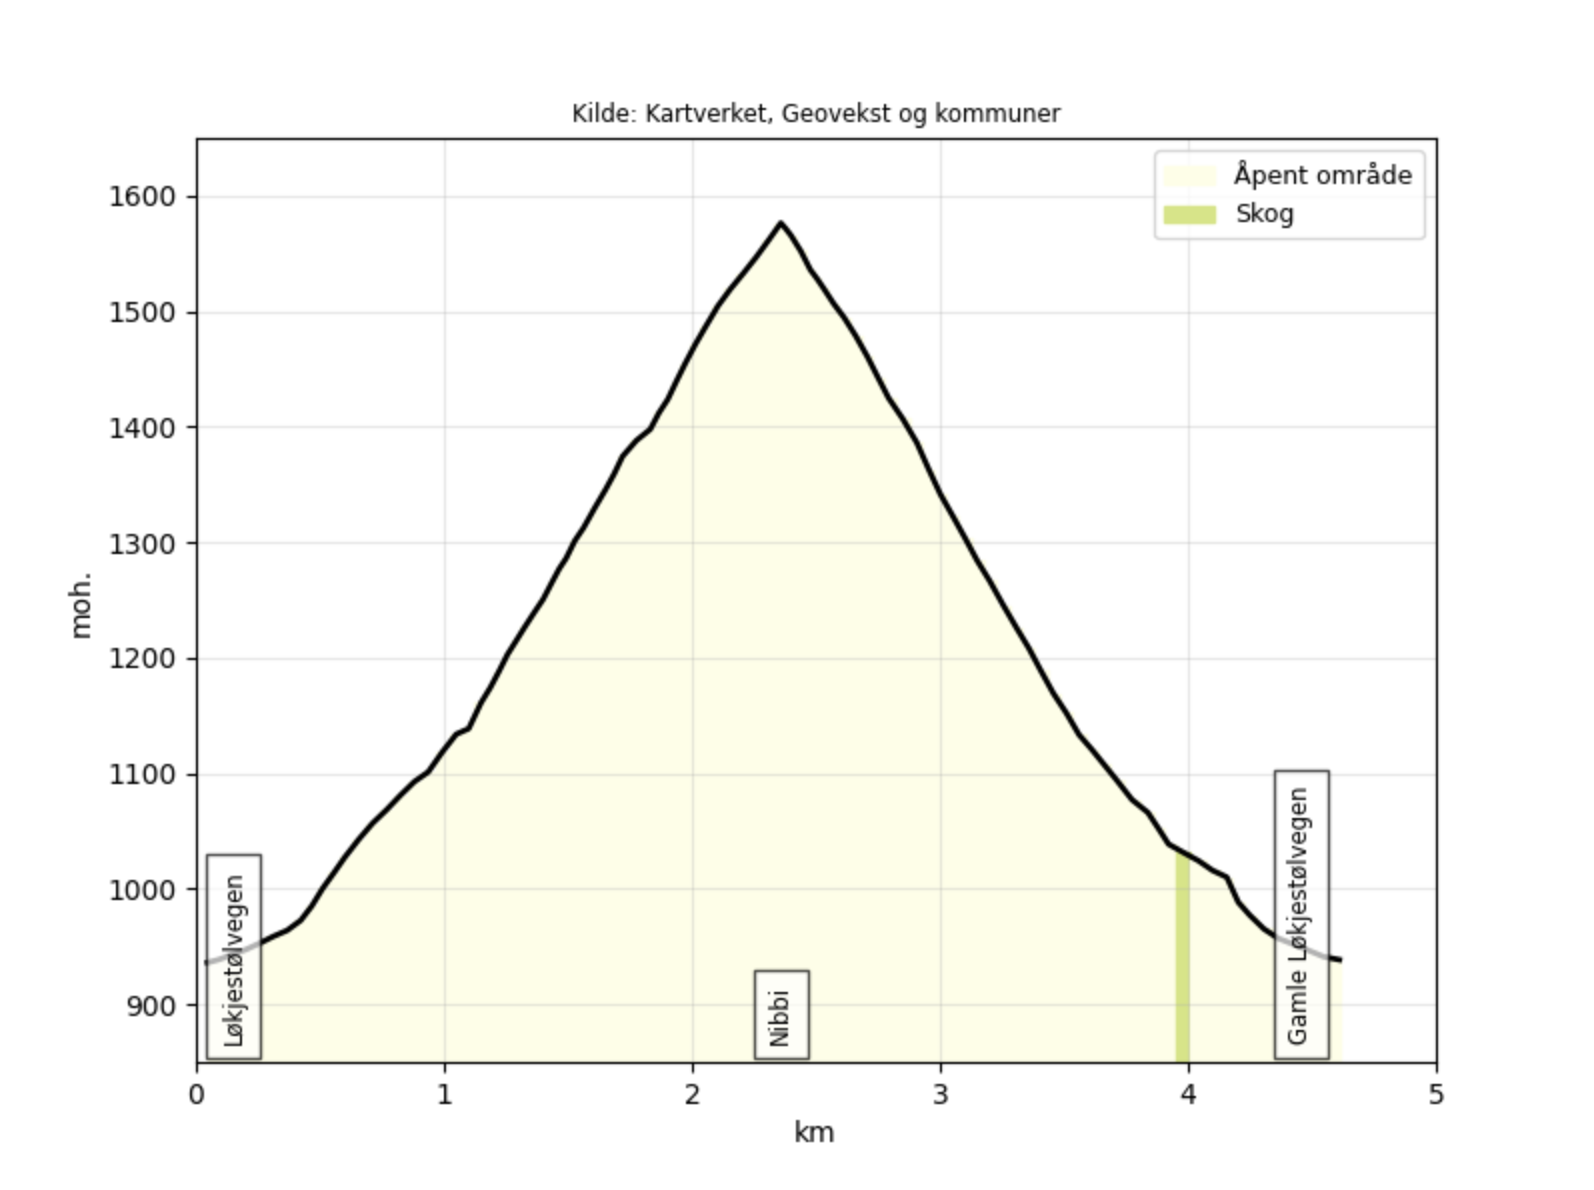
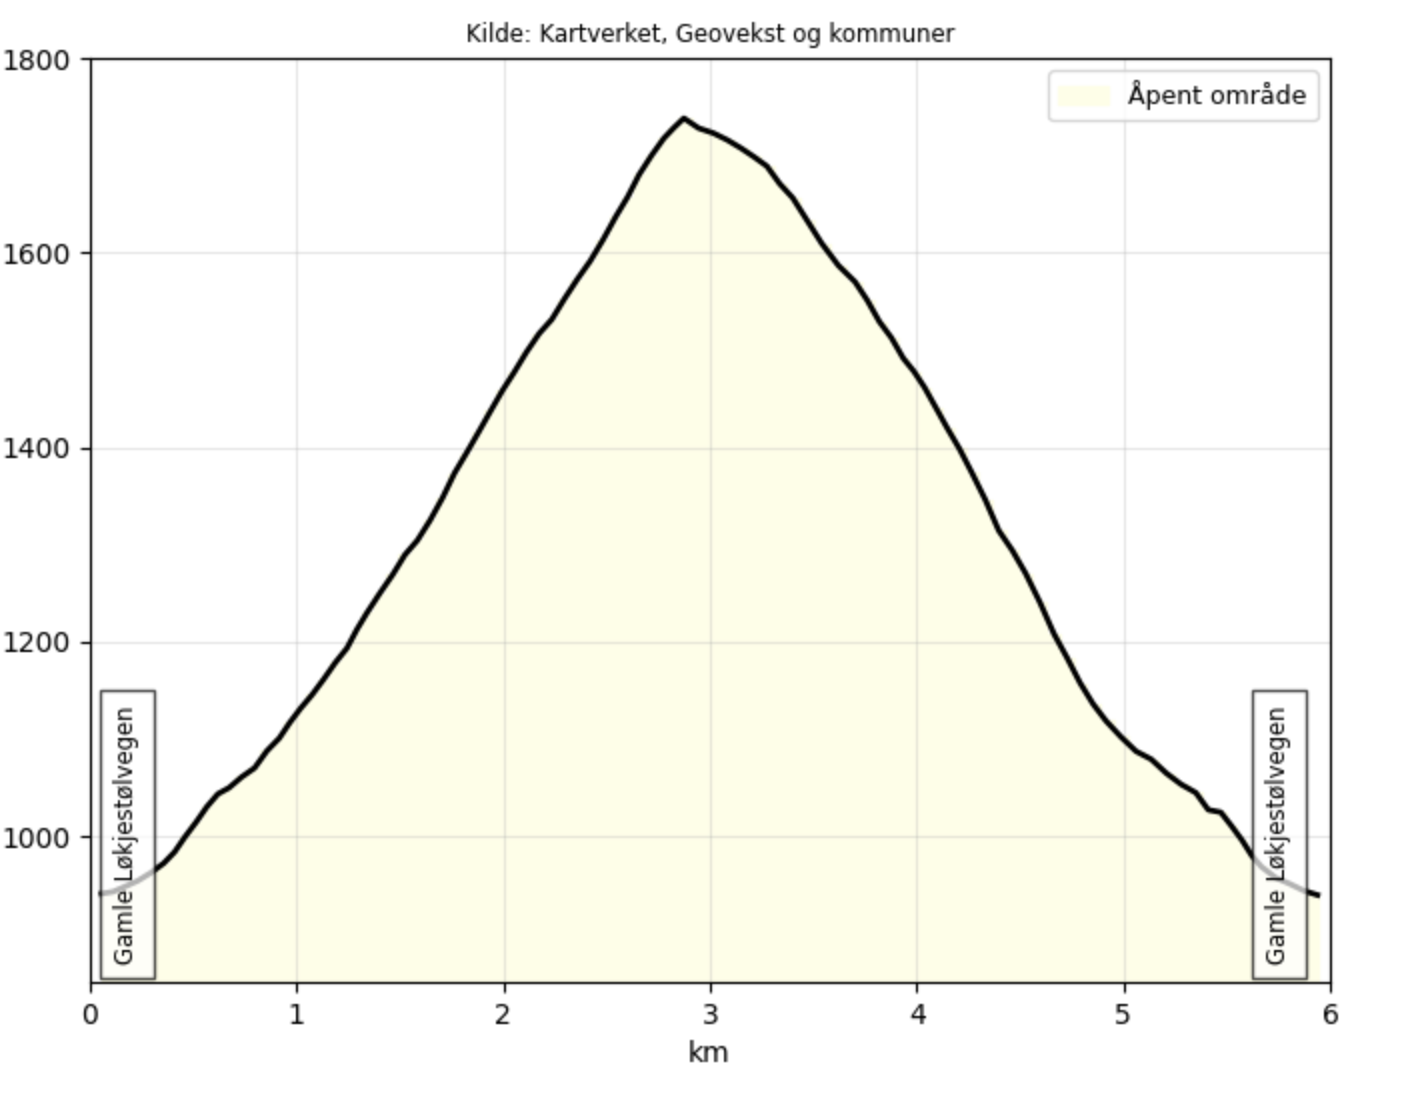
update

diff --git a/content/post/Hemsedal.md b/content/post/Hemsedal.md
@@ -16,7 +16,7 @@ Parkering er den samme som for tur til Skogshorn. Det er et par ruter opp på fj
 
 ## Storebottskarvet (1719 moh)
 
-Storebottskarvet er også en enkel og meget flott topptur. Parkering i en lomme ved riksvei 52. Parkering ca 10 minutter etter passering Tuv. Turen tar ca fire timer å gjennomføre. Hvis man da ikke springer opp.
+Storebottskarvet er også en enkel og meget flott topptur. Parkering i en lomme ved riksvei 52 ca 10 minutter etter passering Tuv (fra Hemsedal). Turen tar ca tre - fire timer å gjennomføre i et helt greit tempo. Første motbakke starter relativt raskt. Etter å ha passert under høyspenten flater det litt ut før siste motbakke mot selve toppen starter. 
 
 ![](/images/Hemsedal/profilstorebottskarvet.png)
 ![](/images/Hemsedal/storebottskarvet.png)
@@ -33,7 +33,15 @@ Turen starter ved riksvei 52 over Hemsedals fjellet.
 
 ## Nibbi (1741 moh)
 
-Jeg har vært på Nibbi flere ganger. Sporloggen fra denne turen stopper rett under toppen. Denne dagen blåste det rimelig friskt så da valgte vi å snu noen hundre høydemeter før toppen. Nibbi er en flott tur som tar mellom tre - fire timer å gjennomføre. Nedkjøring fra Nibbi er i en god og bred snørenne som holder lenge på snøen.
+Jeg har vært på Nibbi 5-6 ganger. Nibbi er en flott tur som tar ca tre timer å gjennomføre. Nibbi er en meget populær topp og det kan anbefales å begynne tidlig, før kl 10. Jeg var nede igjen rundt 12.30 tiden denne dagen og da var det fullt på parkeringsplassen og rimelig mange på tur opp.
+
+Jeg har gått den på 2 1/2 time inklusive en god rast på toppen. Og da var det helt OK tempo opp, rolig gange hele veien til topps med en liten vannpause i nærheten av toppen. Nedkjøring fra Nibbi er i en god og bred snørenne som holder lenge på snøen.
 
 ![](/images/Hemsedal/profilnibbi.png)
 ![](/images/Hemsedal/nibbi.png)
+
+Siste gang jeg var på Nibbi var 2 mai 2021. Det hadde vært minusgrader på natten og når jeg startet var det noe hardt. På veien ned var det supre forhold.
+
+{{< wide-image src="/images/Hemsedal/nibbi2.jpeg" title="Toppvarden." >}}
+
+{{< wide-image src="/images/Hemsedal/nibbi1.jpeg" title="Utsikt mot Skarvanfjellet." >}}
